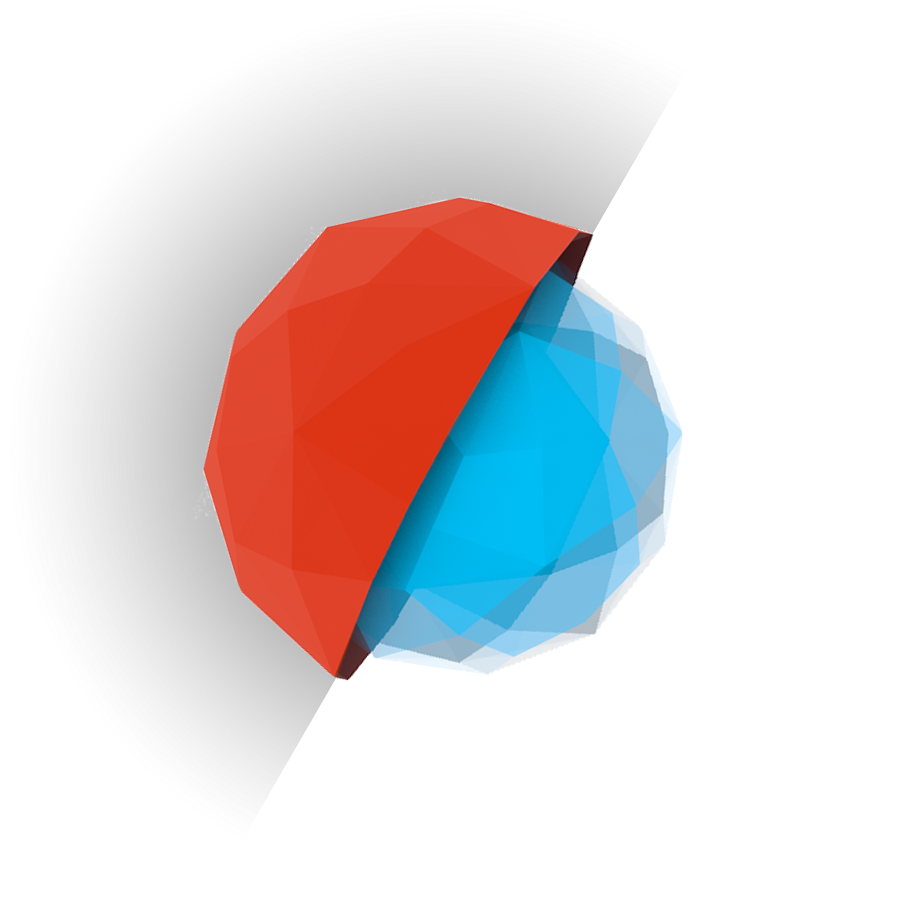
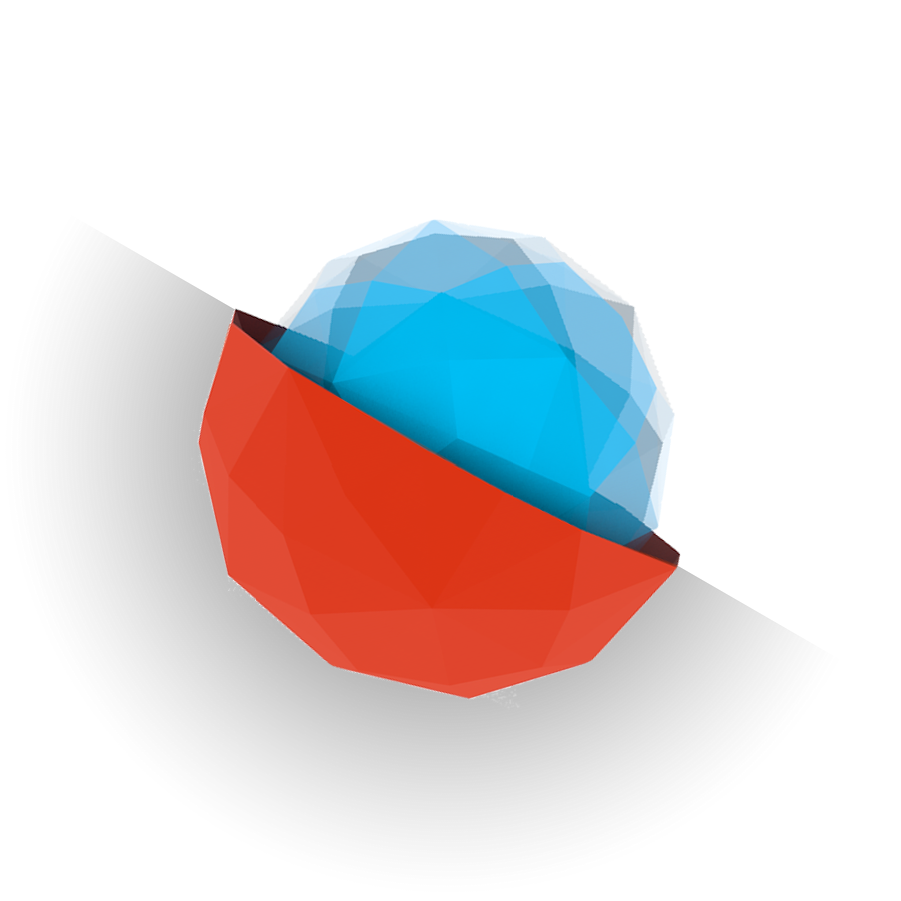
Changed ball animation

diff --git a/js/home.js b/js/home.js
@@ -1,25 +1,32 @@
 $(document).ready(function(){
 	var flag = true;
 	$(window).scroll(function(){
-		if(flag && ($(window).scrollTop() >= ($('#whatWeDo').offset().top-($('#whatWeDo').offset().top/8)) && $(window).scrollTop() <= ($('#whatWeDo').offset().top+($('#whatWeDo').offset().top)/4))){
+		if(flag && ($(window).scrollTop() >= ($('#whatWeDo').offset().top-($('#whatWeDo').offset().top/3)) && $(window).scrollTop() <= ($('#whatWeDo').offset().top+($('#whatWeDo').offset().top)/4))){
 			flag = false;
 			console.log(flag)
 			$('.hsImage').rotate({
+				easing: function (x,t,b,c,d){ 
+          			return c*(t/d)+b;
+      			},
 				angle : 0,
-				animateTo : 180,
-				easing : $.easing.easeInOut, 
-				duration: 1500,
+				animateTo : 90,
+				duration: 2000,
 				callback : function(){
-
+					$('.hsImage').rotate({
+						angle : 90,
+						animateTo : 270,
+						duration: 600,
+						callback: function(){
+							console.log(e);
+						}
+				    });			
 					$('.hardwareDefinitionDiv,.softwareDefinitionDiv').fadeOut(800,function(){
-						$('#hardwareIcons').fadeIn(1500);
-						$('#softwareIcons').fadeIn(1500);
+						$('#hardwareIcons').fadeIn(400);
+						$('#softwareIcons').fadeIn(400);
 						$('#hardwareIcons').removeClass( "invisible" );
 						$('#softwareIcons').removeClass( "invisible" );
 						document.getElementById("whatWeDoTitle").innerHTML = "HOW WE DO IT";
 						document.getElementById("whatWeDoSubtitle").innerHTML = "Aca va otra cosa";
-
-
 
 					});
 				}
